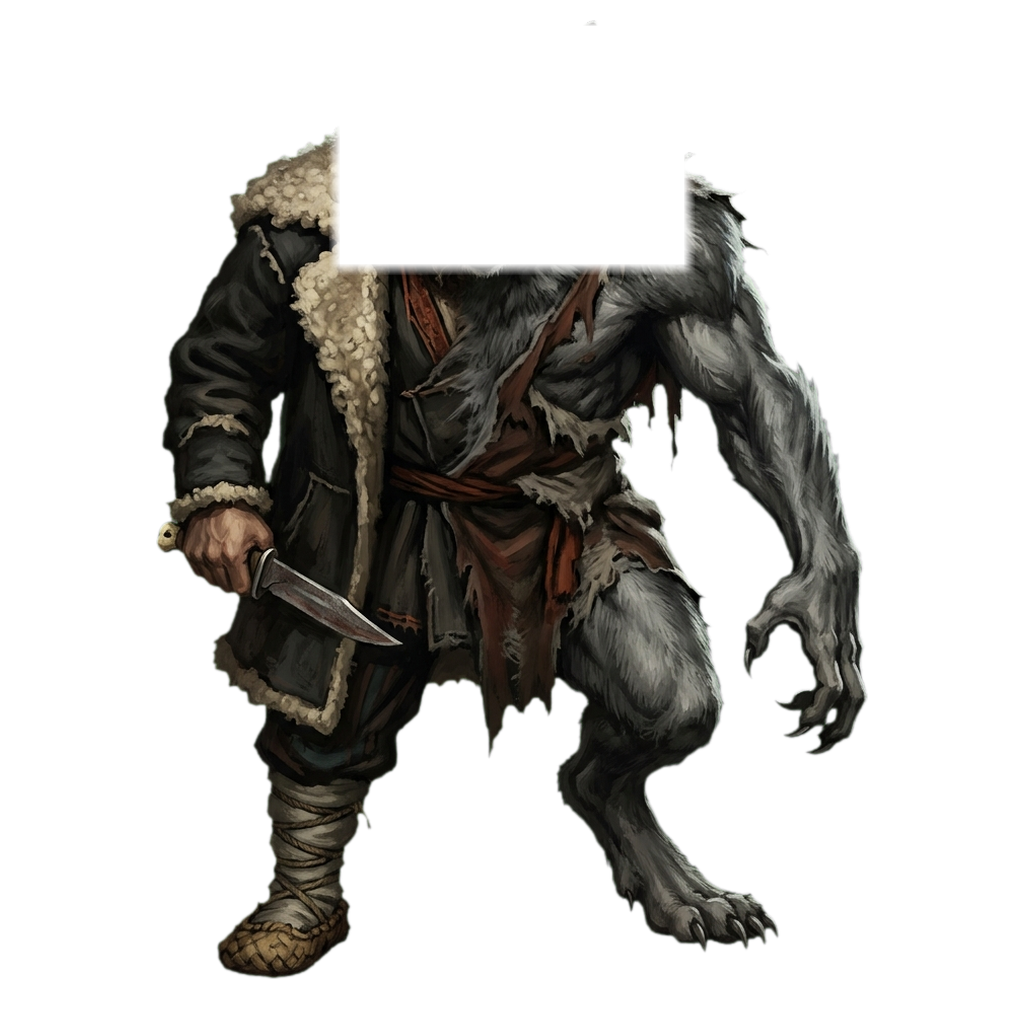
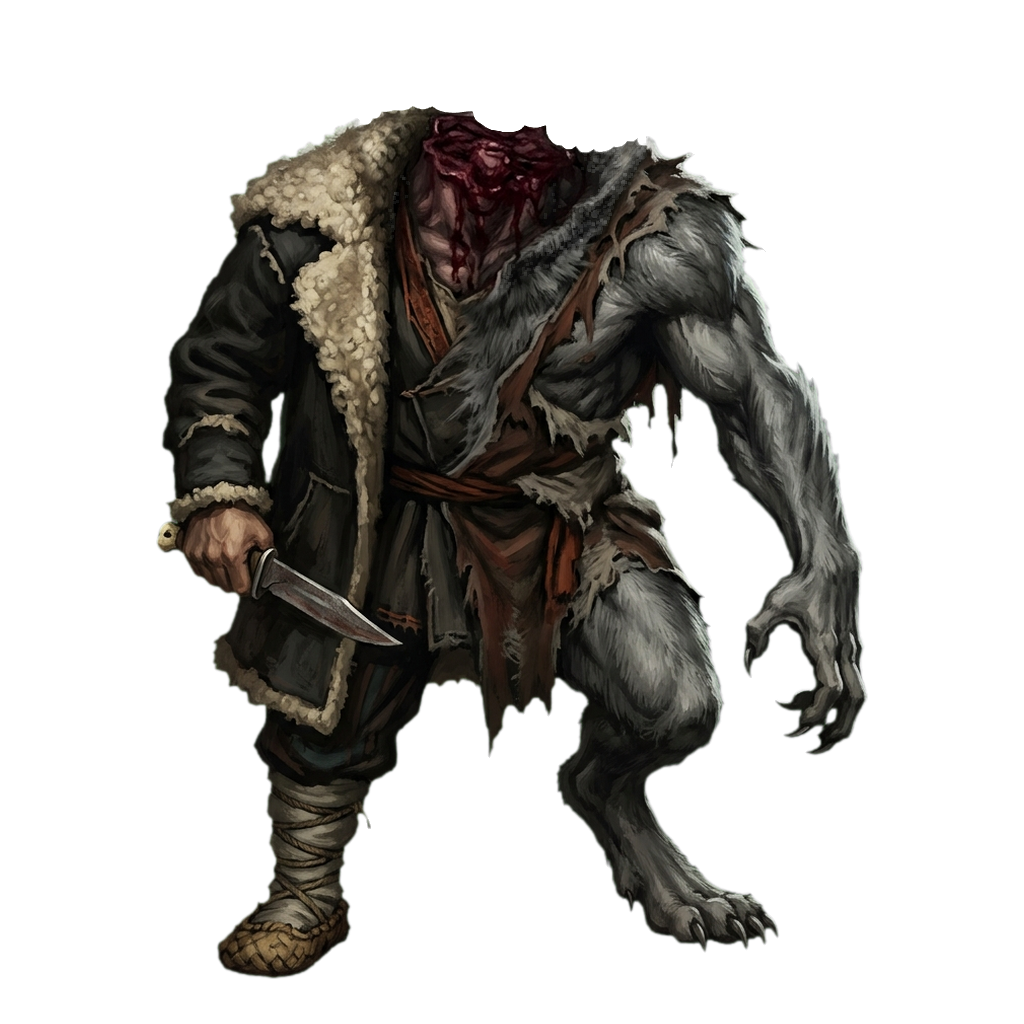
Vedmak's rig painted in Flow

Changed region(s): [[0.3125, 0.0938, 0.6875, 0.3125]]

diff --git a/crates/game/src/battle/rig.rs b/crates/game/src/battle/rig.rs
@@ -159,7 +159,7 @@ const FIGURES: &[(&str, &[Cut])] = &[
     ("enemies/fire_serpent", &[(Part::Head, Vec2::new(0.32, 0.19), 1.0)]),
     ("enemies/tugarin", &[(Part::Head, Vec2::new(0.477, 0.214), 1.0)]),
     ("enemies/black_volhv", &[(Part::Head, Vec2::new(0.527, 0.18), 1.0)]),
-    ("enemies/vedmak", &[(Part::Head, Vec2::new(0.499, 0.263), 1.0)]),
+    ("enemies/vedmak", &[(Part::Head, Vec2::new(0.47, 0.21), 1.0)]),
     ("enemies/wolf_herder", &[(Part::Head, Vec2::new(0.557, 0.234), 1.0)]),
     ("enemies/spinner", &[(Part::Head, Vec2::new(0.527, 0.302), 1.0)]),
     ("enemies/upyr_knyaz", &[(Part::Head, Vec2::new(0.495, 0.178), 1.0)]),
